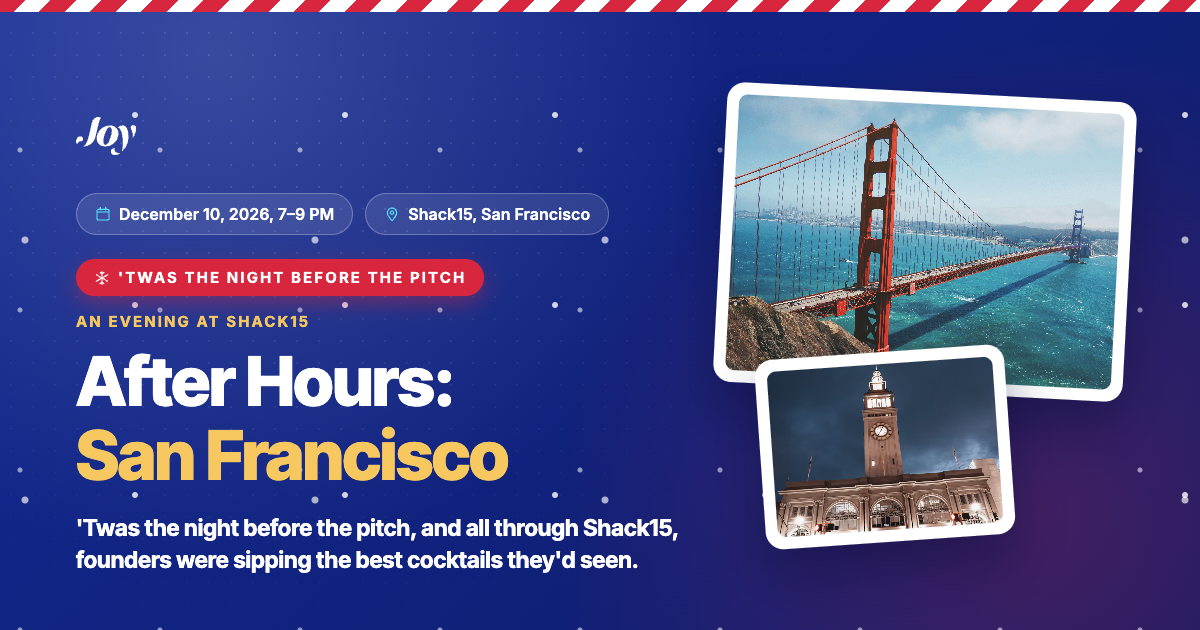
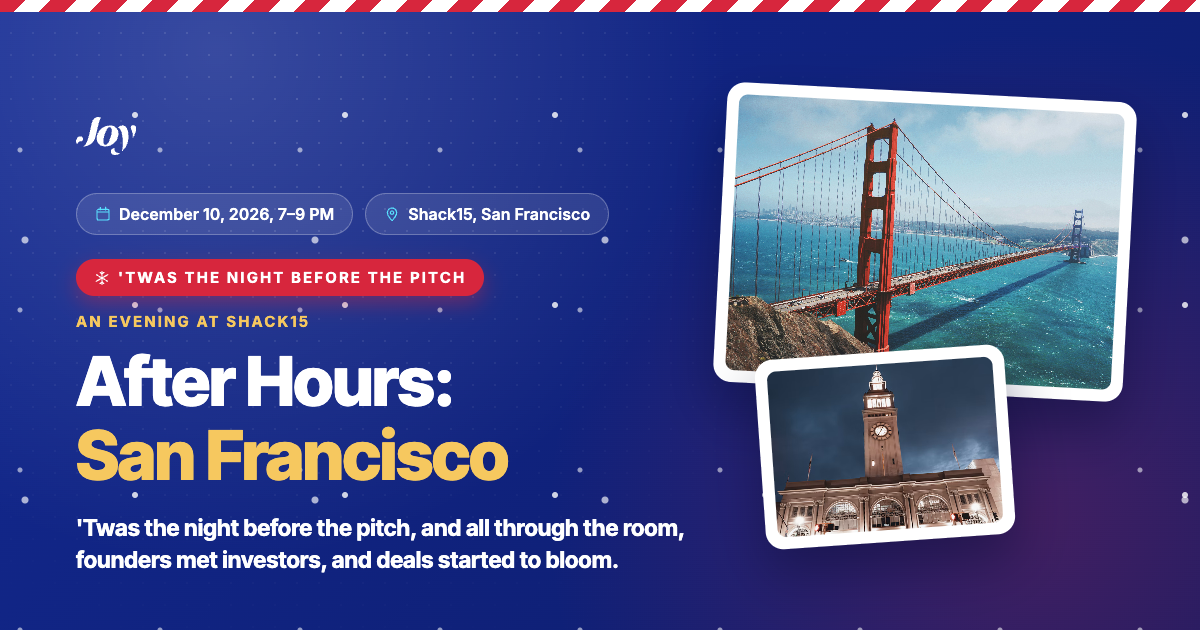
Update After Hours: SF couplet tagline

Changed region(s): [[0.1542, 0.8143, 0.5858, 0.9048]]

diff --git a/after-hours-sf-attendees.html b/after-hours-sf-attendees.html
@@ -564,7 +564,7 @@
         <span class="holiday-badge"><svg viewBox="0 0 24 24" fill="none" xmlns="http://www.w3.org/2000/svg"><path d="M12 2v20M3.3 7l17.4 10M20.7 7 3.3 17M9 3.5l3 2.5 3-2.5M9 20.5l3-2.5 3 2.5" stroke="currentColor" stroke-width="1.8" stroke-linecap="round" stroke-linejoin="round"/></svg>'Twas the Night Before the Pitch</span>
         <span class="eyebrow on-dark">An evening at Shack15</span>
         <h1>After Hours: <span class="accent">San Francisco</span></h1>
-        <p class="tagline">'Twas the night before the pitch, and all through Shack15,<br>founders were sipping the best cocktails they'd seen.</p>
+        <p class="tagline">'Twas the night before the pitch, and all through the room,<br>founders met investors, and deals started to bloom.</p>
         <p class="lead">One hour of real stories from the founders and investors behind them, one hour to meet the people who could fund or build with you next. Founders, operators and investors, cocktails at Shack15.</p>
         <div class="cta-row">
           <a href="https://withjoy.com/AfterHours" class="btn-hero" target="_blank" rel="noopener">Register to Attend</a>

diff --git a/after-hours-sf.html b/after-hours-sf.html
@@ -711,7 +711,7 @@
         <span class="holiday-badge"><svg viewBox="0 0 24 24" fill="none" xmlns="http://www.w3.org/2000/svg"><path d="M12 2v20M3.3 7l17.4 10M20.7 7 3.3 17M9 3.5l3 2.5 3-2.5M9 20.5l3-2.5 3 2.5" stroke="currentColor" stroke-width="1.8" stroke-linecap="round" stroke-linejoin="round"/></svg>'Twas the Night Before the Pitch</span>
         <span class="eyebrow on-dark">An evening at Shack15</span>
         <h1>After Hours: <span class="accent">San Francisco</span></h1>
-        <p class="tagline">'Twas the night before the pitch, and all through Shack15,<br>founders were sipping the best cocktails they'd seen.</p>
+        <p class="tagline">'Twas the night before the pitch, and all through the room,<br>founders met investors, and deals started to bloom.</p>
         <p class="lead">One hour of real stories from the founders and investors behind them, one hour to meet the people who could fund or build with you next. Founders, operators and investors, cocktails at Shack15.</p>
         <div class="cta-row">
           <a href="/after-hours-sf-application" class="btn-hero">Become a Sponsor</a>
